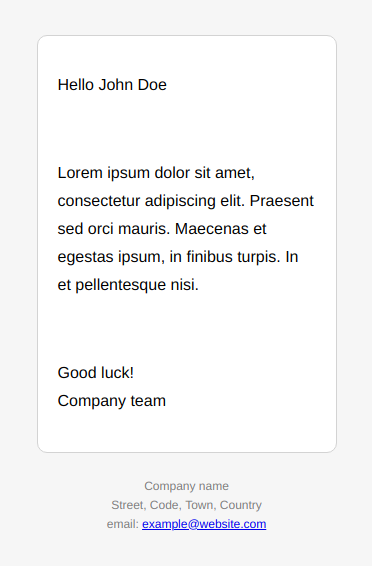
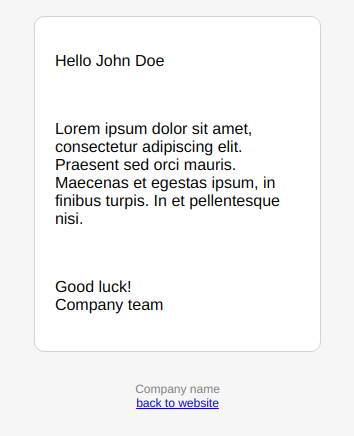
changes on style, html and screenshots

diff --git a/email_content.html b/email_content.html
@@ -1,46 +1,55 @@
 <!doctype html>
 <html>
+
 <head>
     <meta name="viewport" content="width=device-width" />
     <meta http-equiv="Content-Type" content="text/html; charset=UTF-8" />
     <title>email</title>
     <style>
-        body {
+        .body {
             background-color: #f6f6f6;
             font-family: sans-serif;
             -webkit-font-smoothing: antialiased;
             margin: 0;
             padding: 0;
+            width: 100%;
         }
+
         .content {
-            margin: 30px 10% 20px 10%;
+            margin-left: 10%;
+            margin-right: 10%;
             font-size: 16px;
-            line-height: 1.8;
             padding: 20px;
             border-radius: 10px;
             border: 1px solid lightgray;
             background: white;
         }
-        footer {
+
+        .footer {
             color: grey;
             font-size: 12px;
-            line-height: 0.6;
             text-align: center;
         }
     </style>
 </head>
+
 <body>
-    <div class="content">
-        <p>Hello John Doe</p>
+    <div class="body">
         <br />
-        <p>Lorem ipsum dolor sit amet, consectetur adipiscing elit. Praesent sed orci mauris. Maecenas et egestas ipsum, in finibus turpis. In et pellentesque nisi.</p>
+        <div class="content">
+            <p>Hello John Doe</p>
+            <br />
+            <p>Lorem ipsum dolor sit amet, consectetur adipiscing elit. Praesent sed orci mauris. Maecenas et egestas
+                ipsum, in finibus turpis. In et pellentesque nisi.</p>
+            <br />
+            <p>Good luck!<br />Company team</p>
+        </div>
         <br />
-        <p>Good luck!<br/>Company team</p>
+        <div class="footer">
+            <p>Company name<br /><a href="www.website.com">back to website</a></p>
+        </div>
+        <br />
     </div>
-    <footer>
-        <p>Company name</p>
-        <p>Street, Code, Town, Country</p>
-        <p>email: <a href="mailto:example@website.com">example@website.com</a></p>
-    </footer>
 </body>
+
 </html>

diff --git a/email.html b/email.html
@@ -1,46 +1,54 @@
 <!doctype html>
 <html>
+
 <head>
     <meta name="viewport" content="width=device-width" />
     <meta http-equiv="Content-Type" content="text/html; charset=UTF-8" />
     <title>email</title>
     <style>
-        body {
+        .body {
             background-color: #f6f6f6;
             font-family: sans-serif;
             -webkit-font-smoothing: antialiased;
             margin: 0;
             padding: 0;
+            width: 100%;
         }
+
         .content {
-            margin: 30px 10% 20px 10%;
+            margin-left: 10%;
+            margin-right: 10%;
             font-size: 16px;
-            line-height: 1.8;
             padding: 20px;
             border-radius: 10px;
             border: 1px solid lightgray;
             background: white;
         }
-        footer {
+
+        .footer {
             color: grey;
             font-size: 12px;
-            line-height: 0.6;
             text-align: center;
         }
     </style>
 </head>
+
 <body>
-    <div class="content">
-        <p>[hello]</p>
+    <div class="body">
         <br />
-        <p>[message]</p>
+        <div class="content">
+            <p>[hello]</p>
+            <br />
+            <p>[message]</p>
+            <br />
+            <p>[sign]</p>
+        </div>
         <br />
-        <p>[sign]</p>
+        <div class="footer">
+            <p>[footer]</p>
+        </div>
+        <br />
     </div>
-    <footer>
-        <p>Company name</p>
-        <p>Street, Code, Town, Country</p>
-        <p>email: <a href="mailto:example@website.com">example@website.com</a></p>
-    </footer>
 </body>
+
 </html>

diff --git a/README.md b/README.md
@@ -3,13 +3,14 @@
 ### responsive
 
 ### very basic
-less then 50 rows of code
+only 50 rows of code
 
 ### variable keys
 can be replaced dinamiclly
 * [hello]
 * [message]
 * [sign]
+* [footer]
 
 ### screenshots
 ![alt text](https://github.com/vastril4o/simple-email-template/blob/master/img/Screenshot1.png)
